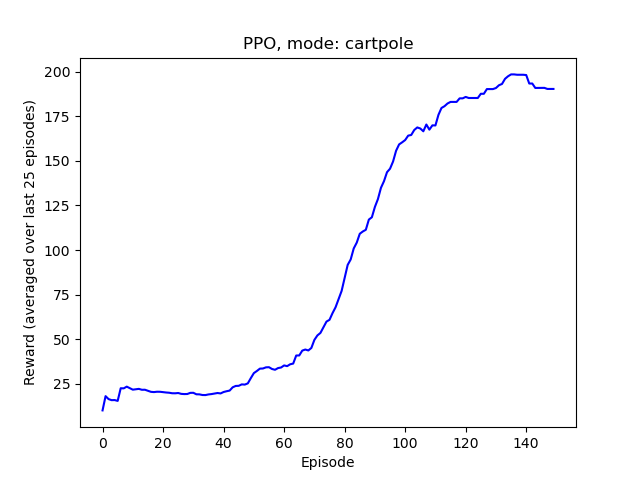
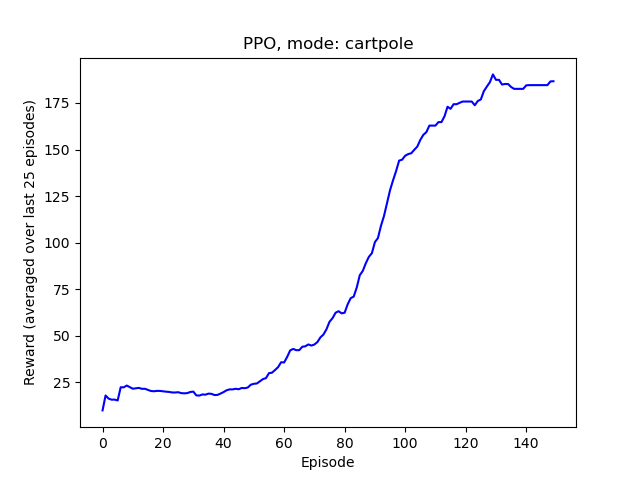
add update value epochs

diff --git a/a02/p2/PPO.py b/a02/p2/PPO.py
@@ -97,7 +97,8 @@ def train(S,A,returns, old_log_probs):
     # Use the same implementation you did in REINFORCE_Baseline.py for estimating the advantage function
     # (instead of following the PPO slides)
     value_criterion = torch.nn.MSELoss()
-    for _ in range(10):
+    value_iters = 5
+    for _ in range(value_iters):
         # Update value networks
         value_loss = value_criterion(V(S), returns)
         value_optimizer.zero_grad()
